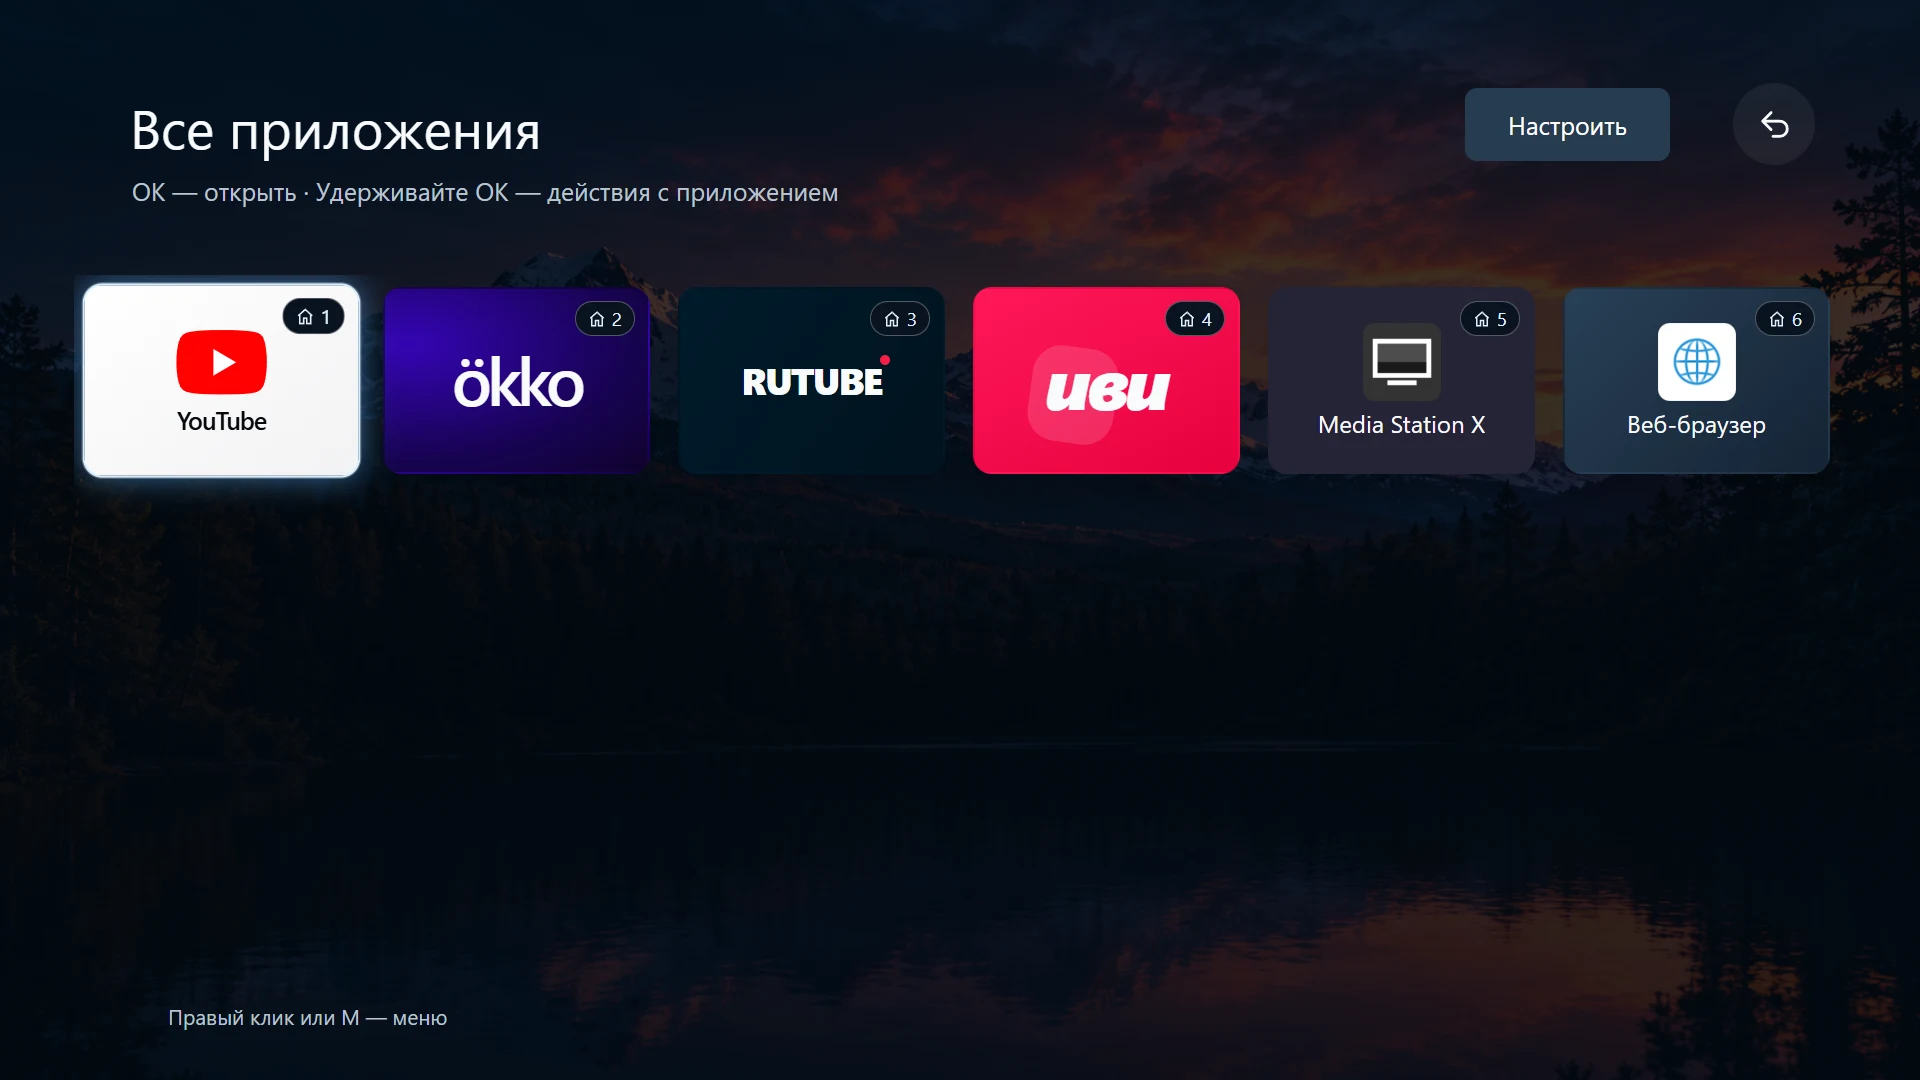
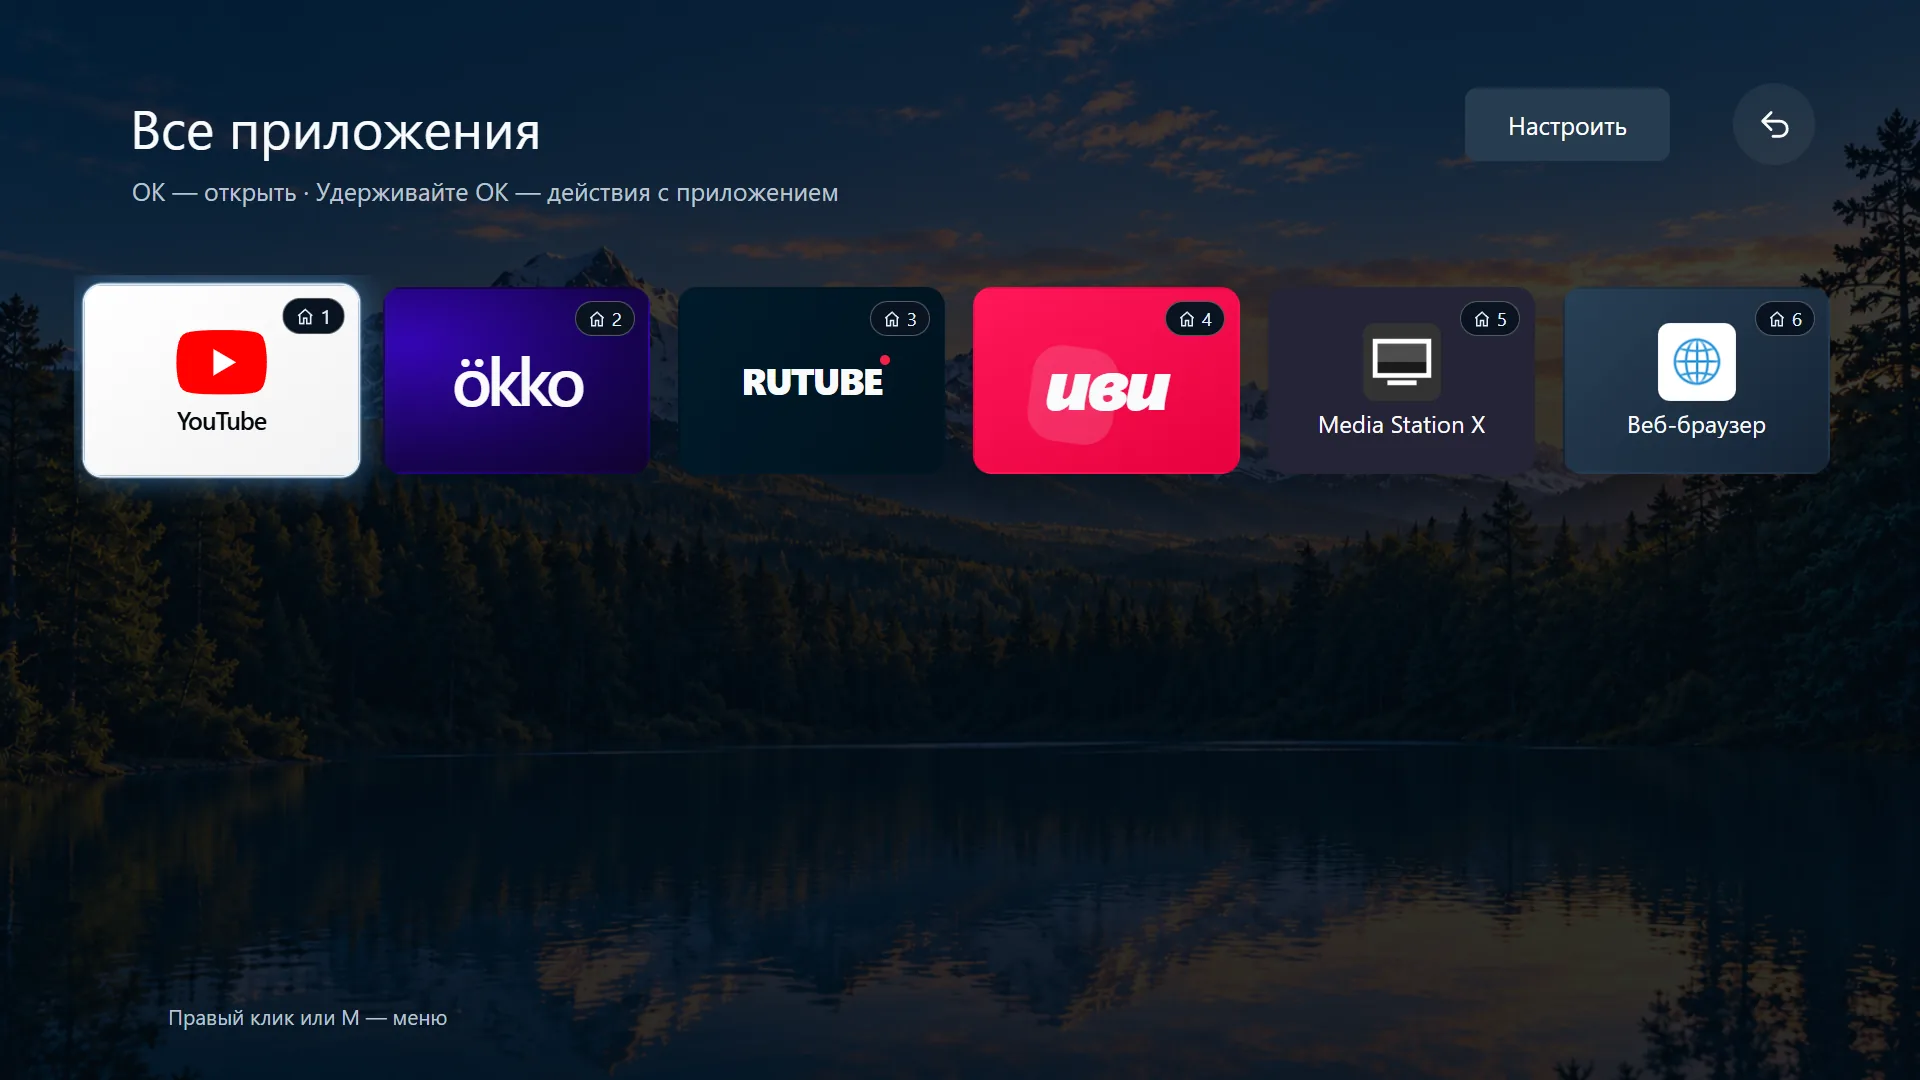
Обновлено описание LG Gate 0.1.4 и скриншоты четырёх тем

Changed region(s): [[0.0, 0.0, 1.0, 0.3056], [0.8438, 0.4583, 0.875, 0.4889]]

diff --git a/README.md b/README.md
@@ -1,42 +1,53 @@
 # LG Gate
 
-Лаунчер для LG webOS: любимые приложения, часы и настройки на одном экране.
+Домашний экран для LG webOS: шесть любимых приложений, управление пультом и фоны по времени суток.
 
 > [!WARNING]
 > **Проверено только на LG SM8200PLA.**
 > ПО **05.40.97** · webOS **4.10.2 (поколение 4.5)** · Homebrew Channel **0.7.3**.
 >
-> **Для других моделей и версий совместимость не подтверждена.** Не устанавливайте IPK и не применяйте скрипты Home/автозапуска без отдельной проверки совместимости.
+> **Для других моделей и версий совместимость не подтверждена.** Не устанавливайте IPK и не применяйте скрипты без отдельной проверки совместимости.
 
-[**Скачать IPK 0.1.4**](https://github.com/Donkiton/Lg-WebOS-launcher/raw/refs/heads/main/dist/org.lggate.launcher_0.1.4_all.ipk) · [Установка и откат](docs/INSTALLATION.md) · [SHA256](dist/SHA256SUMS.txt)
+[**Скачать 0.1.4**](https://github.com/Donkiton/Lg-WebOS-launcher/raw/refs/heads/main/dist/org.lggate.launcher_0.1.4_all.ipk) · [Установка и откат](docs/INSTALLATION.md) · [SHA256](dist/SHA256SUMS.txt)
 
-![Главный экран LG Gate с шестью карточками приложений — браузерный предпросмотр](assets/readme/home.webp)
+![LG Gate 0.1.4: главный экран с утренним фоном и шестью карточками приложений](assets/readme/home.webp)
 
-<details>
-<summary>Посмотреть каталог приложений</summary>
-
-![Каталог приложений LG Gate — браузерный предпросмотр](assets/readme/apps.webp)
-
-</details>
+Скриншоты — из браузерного предпросмотра с общими примерами. На ТВ используется его собственный каталог.
 
 ## Возможности
 
-- До шести главных карточек: закрепление, замена и перестановка.
-- Каталог приложений телевизора и поддерживаемые ярлыки Media Station X.
-- Запуск по кнопке Home, автозапуск и возврат после выхода из приложения.
-- Четыре фона по времени суток: тема выбирается заранее при включении ТВ.
-- Отдельное назначение кнопок IVI → YouTube и Movies/Rakuten → Zona.
-- Настройки анимации, отражений и затемнения; управление пультом и мышью.
+- **Главный экран:** до шести карточек с закреплением, заменой и перестановкой.
+- **Каталог:** приложения телевизора и поддерживаемые ярлыки Media Station X.
+- **Возврат домой:** Home, автозапуск и возврат после окончательного выхода из приложения.
+- **Кнопки приложений:** отдельная настройка IVI → YouTube и Movies/Rakuten → Zona.
+- **Оформление:** анимации, отражения на воде и затемнение.
+
+**Четыре фона.** Тема выбирается заранее при включении по местному времени ТВ и сохраняется до следующего включения. Посреди просмотра картинка не меняется.
+
+<details>
+<summary>Посмотреть все фоны и каталог</summary>
+
+| Утро · 06:00–10:59 | День · 11:00–17:59 |
+| :---: | :---: |
+| ![Утренний фон: горное озеро в мягком свете, часы 08:30](assets/readme/home.webp) | ![Дневной фон: яркое горное озеро, часы 14:30](assets/readme/day.webp) |
+
+| Вечер · 18:00–22:59 | Ночь · 23:00–05:59 |
+| :---: | :---: |
+| ![Вечерний фон: закат над горным озером, часы 20:30](assets/readme/evening.webp) | ![Ночной фон: лунный свет и отражения на озере, часы 00:30](assets/readme/night.webp) |
+
+![Каталог приложений LG Gate 0.1.4 в браузерном предпросмотре](assets/readme/apps.webp)
+
+</details>
 
 **На пульте:** стрелки — навигация, OK — запуск, синяя кнопка — действия с карточкой, Back — назад.
 
-## Установка на телевизор
+## Установка на ТВ
 
 Нужны **root-доступ и Homebrew Channel**. Получение root в комплект не входит.
 
-Скачай IPK и следуй [пошаговой инструкции](docs/INSTALLATION.md): установка приложения → назначение Home → автозапуск. Там же описан полный откат перед удалением.
+Сверь модель и версии выше, скачай IPK и следуй [пошаговой инструкции](docs/INSTALLATION.md): установка → назначение Home → автозапуск. Там же — настройка кнопок и откат. После холодного старта перед лаунчером пока может появляться Live TV.
 
-## Посмотреть на компьютере
+## Предпросмотр на ПК
 
 Нужен Node.js 18+.
 
@@ -46,8 +57,6 @@ cd Lg-WebOS-launcher
 npm start
 ```
 
-Открой **http://127.0.0.1:4173**. На скриншотах выше — этот предпросмотр с общими примерами; на телевизоре каталог берётся из webOS. Установленный лаунчер работает без сервера на ПК.
-
-## Документация
+Открой **http://127.0.0.1:4173**. Запуск приложений и сеть здесь имитируются. Установленный лаунчер работает без сервера на ПК.
 
 [Установка, сборка и откат](docs/INSTALLATION.md) · [Технические заметки](docs/DEVELOPMENT.md) · [История дизайна](DESIGN.md)
